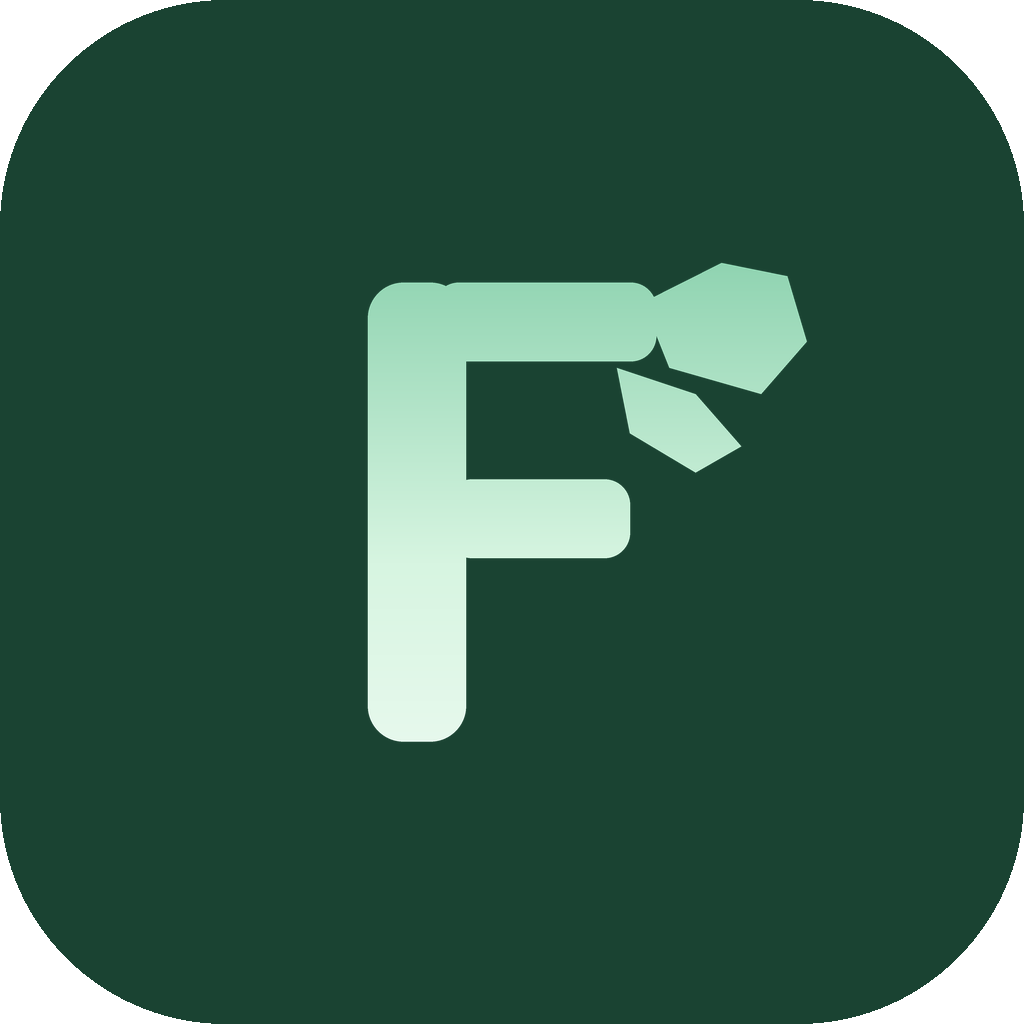
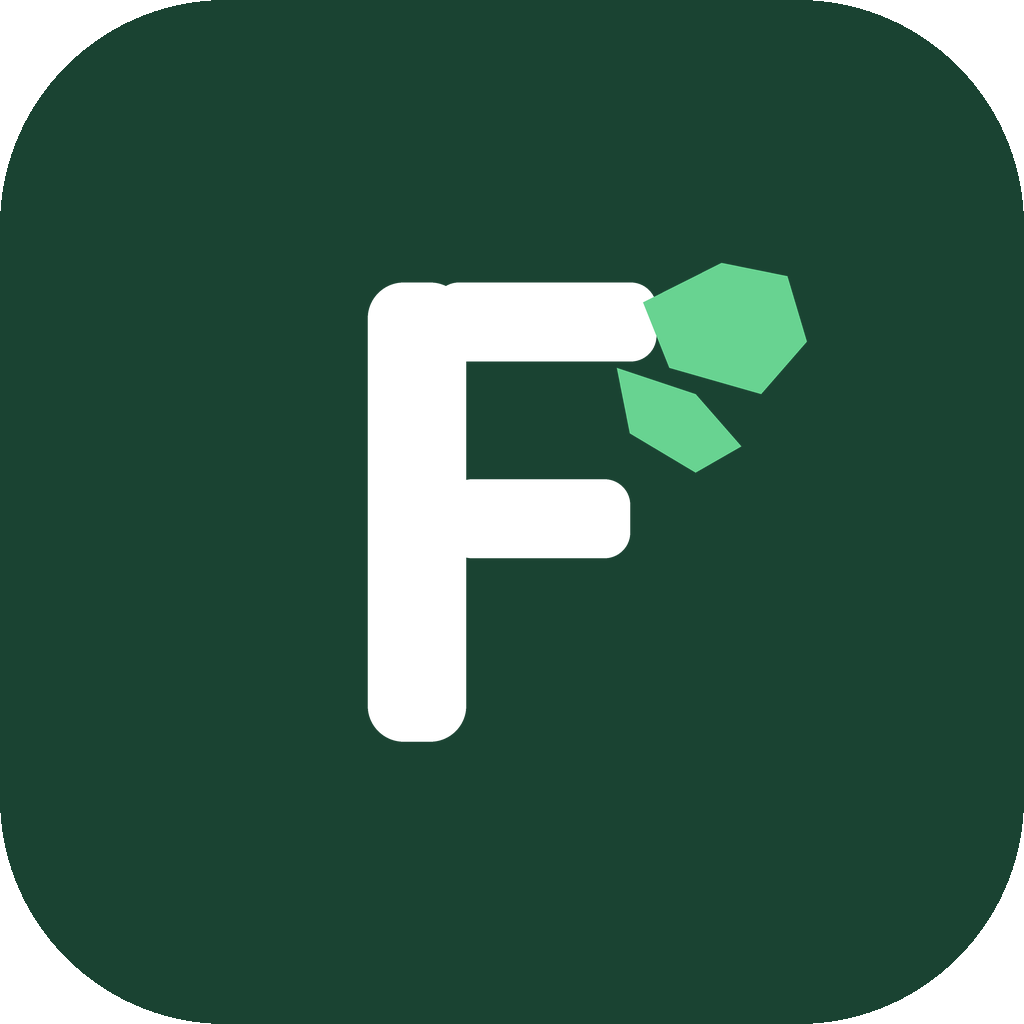
desain: kembalikan ikon aplikasi opsi 3 the living leaf asli tanpa modifikasi gradasi

Changed region(s): [[0.3438, 0.25, 0.8125, 0.75]]

diff --git a/tool/generate_app_icons.py b/tool/generate_app_icons.py
@@ -4,10 +4,13 @@ from PIL import Image, ImageDraw
 
 def buat_ikon_funda(ukuran, bentuk="squircle", foreground_saja=False, monokrom=False):
     """
-    Membuat ikon Funda (Opsi 3: The Living Leaf dengan transisi gradasi putih ke hijau daun).
+    Membuat ikon Funda Opsi 3 asli (The Living Leaf):
+    - Huruf 'F' putih murni solid (#FFFFFF).
+    - Tunas daun di ujung palang berwarna hijau muda segar (#68D391).
+    - Latar belakang Forest Green (#1A4332).
     - bentuk: 'squircle', 'lingkaran', 'kotak'
-    - foreground_saja: True jika hanya gambar F + tunas dengan latar transparan (untuk adaptive icon foreground)
-    - monokrom: True jika siluet putih murni dengan latar transparan (untuk status bar notification)
+    - foreground_saja: True jika hanya gambar F + daun dengan latar transparan (untuk adaptive icon)
+    - monokrom: True jika siluet putih murni (untuk notifikasi status bar)
     """
     img = Image.new("RGBA", (ukuran, ukuran), (0, 0, 0, 0))
     draw = ImageDraw.Draw(img)
@@ -26,52 +29,45 @@ def buat_ikon_funda(ukuran, bentuk="squircle", foreground_saja=False, monokrom=F
             draw.rectangle([0, 0, s - 1, s - 1], fill=warna_latar)
 
     # 2. Skala koordinat gambar F dan Daun (berbasis kanvas normal 100x100)
-    # Area aktif: 25% margin agar adaptive icon tidak terpotong (safe zone)
     margin = 0.22 if foreground_saja else 0.18
     w_aktif = s * (1.0 - 2 * margin)
     h_aktif = s * (1.0 - 2 * margin)
     x0 = s * margin
     y0 = s * margin
 
-    # Fungsi pembantu untuk konversi koordinat persen (0..100) ke pixel
-    def kx(px):
-        return x0 + (px / 100.0) * w_aktif
-    def ky(py):
-        return y0 + (py / 100.0) * h_aktif
-
-    # Buat kanvas resolusi tinggi sementara untuk rendering anti-aliased halus
+    # Buat kanvas resolusi tinggi sementara untuk rendering anti-aliased halus (supersampling 4x)
     skala_super = 4
     super_w = s * skala_super
-    super_img = Image.new("RGBA", (super_w, super_w), (0, 0, 0, 0))
-    s_draw = ImageDraw.Draw(super_img)
+    super_fg = Image.new("RGBA", (super_w, super_w), (0, 0, 0, 0))
+    s_draw = ImageDraw.Draw(super_fg)
 
     def skx(px):
         return (x0 + (px / 100.0) * w_aktif) * skala_super
     def sky(py):
         return (y0 + (py / 100.0) * h_aktif) * skala_super
 
-    # Masking layer untuk monogram 'F' dan Daun
-    mask_img = Image.new("L", (super_w, super_w), 0)
-    mask_draw = ImageDraw.Draw(mask_img)
+    # Warna elemen
+    warna_f = (255, 255, 255, 255) # Putih murni solid
+    warna_daun = (255, 255, 255, 255) if monokrom else (104, 211, 145, 255) # Hijau muda tunas #68D391
 
-    # A. Batang Vertikal 'F'
+    # A. Batang Vertikal 'F' (Putih)
     bx1, by1 = skx(28), sky(15)
     bx2, by2 = skx(43), sky(85)
     rad_batang = int(super_w * 0.035)
-    mask_draw.rounded_rectangle([bx1, by1, bx2, by2], radius=rad_batang, fill=255)
+    s_draw.rounded_rectangle([bx1, by1, bx2, by2], radius=rad_batang, fill=warna_f)
 
-    # B. Palang Horizontal Tengah 'F'
+    # B. Palang Horizontal Tengah 'F' (Putih)
     px1, py1 = skx(40), sky(45)
     px2, py2 = skx(68), sky(57)
     rad_palang = int(super_w * 0.025)
-    mask_draw.rounded_rectangle([px1, py1, px2, py2], radius=rad_palang, fill=255)
+    s_draw.rounded_rectangle([px1, py1, px2, py2], radius=rad_palang, fill=warna_f)
 
-    # C. Palang Horizontal Atas 'F'
+    # C. Palang Horizontal Atas 'F' (Putih)
     ax1, ay1 = skx(38), sky(15)
     ax2, ay2 = skx(72), sky(27)
-    mask_draw.rounded_rectangle([ax1, ay1, ax2, ay2], radius=rad_palang, fill=255)
+    s_draw.rounded_rectangle([ax1, ay1, ax2, ay2], radius=rad_palang, fill=warna_f)
 
-    # D. Tunas Daun Pertama (Daun Utama mengarah ke kanan atas)
+    # D. Tunas Daun Pertama (Daun Utama mengarah ke kanan atas - Hijau Muda #68D391)
     titik_daun1 = [
         (skx(70), sky(18)),
         (skx(82), sky(12)),
@@ -80,9 +76,9 @@ def buat_ikon_funda(ukuran, bentuk="squircle", foreground_saja=False, monokrom=F
         (skx(88), sky(32)),
         (skx(74), sky(28)),
     ]
-    mask_draw.polygon(titik_daun1, fill=255)
+    s_draw.polygon(titik_daun1, fill=warna_daun)
 
-    # E. Tunas Daun Kedua (Daun Kecil di ketiak tunas)
+    # E. Tunas Daun Kedua (Daun Kecil di ketiak tunas - Hijau Muda #68D391)
     titik_daun2 = [
         (skx(66), sky(28)),
         (skx(78), sky(32)),
@@ -90,43 +86,10 @@ def buat_ikon_funda(ukuran, bentuk="squircle", foreground_saja=False, monokrom=F
         (skx(78), sky(44)),
         (skx(68), sky(38)),
     ]
-    mask_draw.polygon(titik_daun2, fill=255)
-
-    # 3. Warna atau Gradasi Monogram
-    if monokrom:
-        # Putih solid untuk notifikasi
-        grad_img = Image.new("RGBA", (super_w, super_w), (255, 255, 255, 255))
-    else:
-        # Gradasi dari bawah ke atas: Putih Murni (#FFFFFF) -> Mint (#A8ECC4) -> Daun Segar (#52B788)
-        grad_img = Image.new("RGBA", (super_w, super_w))
-        warna_bawah = (255, 255, 255)       # Putih di bagian bawah huruf F
-        warna_tengah = (215, 245, 225)      # Transisi putih-ke-mint halus
-        warna_atas = (82, 183, 136)         # Hijau daun segar #52B788 di ujung tunas daun
-
-        # Render gradasi vertikal bergaris
-        for y in range(super_w):
-            rasio = 1.0 - (y / float(super_w)) # 0 di bawah, 1 di atas
-            if rasio < 0.45:
-                # Bawah ke tengah
-                t = rasio / 0.45
-                r = int(warna_bawah[0] + t * (warna_tengah[0] - warna_bawah[0]))
-                g = int(warna_bawah[1] + t * (warna_tengah[1] - warna_bawah[1]))
-                b = int(warna_bawah[2] + t * (warna_tengah[2] - warna_bawah[2]))
-            else:
-                # Tengah ke atas
-                t = (rasio - 0.45) / 0.55
-                r = int(warna_tengah[0] + t * (warna_atas[0] - warna_tengah[0]))
-                g = int(warna_tengah[1] + t * (warna_atas[1] - warna_tengah[1]))
-                b = int(warna_tengah[2] + t * (warna_atas[2] - warna_tengah[2]))
-            
-            grad_draw = ImageDraw.Draw(grad_img)
-            grad_draw.line([(0, y), (super_w, y)], fill=(r, g, b, 255))
-
-    # Terapkan masking pada gradasi
-    grad_img.putalpha(mask_img)
+    s_draw.polygon(titik_daun2, fill=warna_daun)
 
     # Resize supersampled image kembali ke ukuran target dengan resampling berkualitas tinggi (LANCZOS)
-    foreground = grad_img.resize((s, s), Image.Resampling.LANCZOS)
+    foreground = super_fg.resize((s, s), Image.Resampling.LANCZOS)
 
     # Gabungkan dengan kanvas utama
     img = Image.alpha_composite(img, foreground)
@@ -135,7 +98,7 @@ def buat_ikon_funda(ukuran, bentuk="squircle", foreground_saja=False, monokrom=F
 def main():
     root_dir = os.path.abspath(os.path.join(os.path.dirname(__file__), ".."))
     
-    # Buat direktori tujuan bila belum ada
+    # Direktori tujuan
     res_dir = os.path.join(root_dir, "android", "app", "src", "main", "res")
     aset_dir = os.path.join(root_dir, "aset", "gambar")
     os.makedirs(aset_dir, exist_ok=True)
@@ -174,7 +137,7 @@ def main():
         # ic_launcher_foreground (untuk adaptive icon v26)
         ikon_fg = buat_ikon_funda(size, foreground_saja=True)
         ikon_fg.save(os.path.join(folder_path, "ic_launcher_foreground.png"))
-        print(f"Tersimpan ikon Android: {folder} ({size}x{size})")
+        print(f"Tersimpan ikon Android asli Opsi 3: {folder} ({size}x{size})")
 
     # 3. Simpan Ikon Notifikasi Monokrom di res/drawable/ic_notifikasi.png
     notif_icon = buat_ikon_funda(96, monokrom=True)
